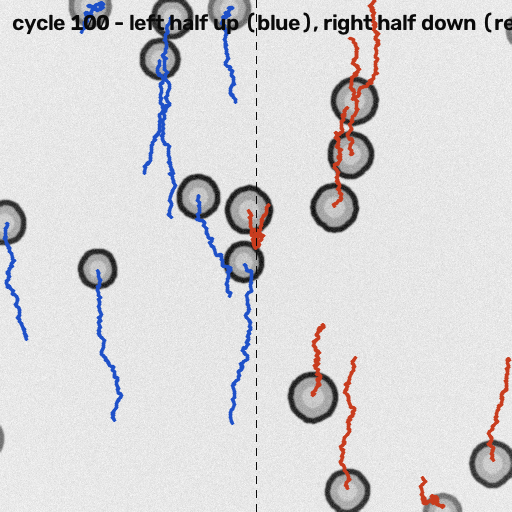
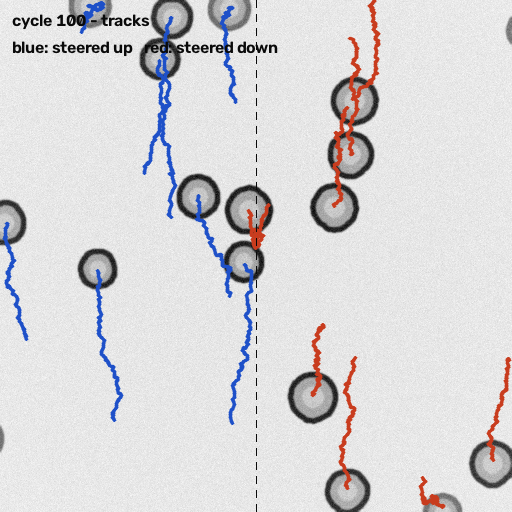
Event-driven MDA activity (useq-schema Queue pattern from pymmcore-plus guide), thread-safe SLM under realtime engine, MDA smoke test; figures: fitted multi-line labels, pipeline explainer (6-panel crop), longer explainer tracks

Changed region(s): [[0.0, 0.0312, 1.0, 0.125]]

diff --git a/scripts/make_module_figures.py b/scripts/make_module_figures.py
@@ -26,9 +26,16 @@ OUT = sys.argv[1] if len(sys.argv) > 1 else "docs/images"
 BLACK = (10, 10, 10)
 
 
-def label(panel, text):
-    cv2.putText(panel, text, (12, 30), cv2.FONT_HERSHEY_SIMPLEX, 0.75,
-                BLACK, 2, cv2.LINE_AA)
+def label(panel, text, scale=0.55):
+    """One or more label lines, sized to stay inside a 512-px panel."""
+    lines = [text] if isinstance(text, str) else list(text)
+    y = 26
+    for line in lines:
+        (w, h), _ = cv2.getTextSize(line, cv2.FONT_HERSHEY_SIMPLEX, scale, 2)
+        s = scale * min(1.0, (panel.shape[1] - 24) / max(w, 1))
+        cv2.putText(panel, line, (12, y), cv2.FONT_HERSHEY_SIMPLEX, s,
+                    BLACK, 2, cv2.LINE_AA)
+        y += h + 12
     return panel
 
 
@@ -89,7 +96,7 @@ def fig_steering():
     p2 = overlay(img_final, np.zeros_like(img_final))
     rows = link_tracks(det)
     draw_tracks(p2, rows, lambda tr: (30, 110, 30))
-    label(p2, "cycle 100 - tracks (population moved up)")
+    label(p2, ["cycle 100 - tracks", "(population moved up)"])
 
     cv2.imwrite(f"{OUT}/act2_steering_expected.png",
                 cv2.cvtColor(np.hstack([p1, p2]), cv2.COLOR_RGB2BGR))
@@ -117,7 +124,7 @@ def fig_split():
     draw_tracks(panel, rows, color)
     for y in range(0, 512, 14):                # dashed midline
         cv2.line(panel, (256, y), (256, min(y + 7, 511)), BLACK, 1)
-    label(panel, "cycle 100 - left half up (blue), right half down (red)")
+    label(panel, ["cycle 100 - tracks", "blue: steered up   red: steered down"])
     cv2.imwrite(f"{OUT}/act2_split_expected.png",
                 cv2.cvtColor(panel, cv2.COLOR_RGB2BGR))
 
@@ -171,13 +178,120 @@ def fig_letter():
     core.snapImage()
     on = sum(1 for cx, cy in cells if target[cy, cx] > 0)
     p = overlay(core.getImage(), target, color=(255, 120, 120), alpha=0.22)
-    panels.append(label(p, f"cycle 500 - {on}/{len(cells)} cells on target"))
+    panels.append(label(p, [f"cycle 500", f"{on}/{len(cells)} cells on target"]))
     cv2.imwrite(f"{OUT}/exercise_letter_expected.png",
                 cv2.cvtColor(np.hstack(panels), cv2.COLOR_RGB2BGR))
+
+
+def fig_pipeline():
+    """From pixels to decisions, on a small crop with ~3 cells.
+
+    All panels show the experiment start (t=0); the tracks panel overlays
+    where the cells went during the following 25 steering cycles.
+    """
+    # seed 18 has a clean, isolated 3-cell neighbourhood for the crop
+    core, sim = load_microscope("optogenetic", n_cells=20, seed=18,
+                                warmup=False)
+
+    def snap(ch):
+        core.setConfig("Channel", ch)
+        core.snapImage()
+        return core.getImage()
+
+    # ── capture everything at t = 0 ─────────────────────────────────────
+    phase0 = snap("phase-contrast")
+    dapi0 = snap("DAPI")
+    _, binary0 = cv2.threshold(dapi0, 0, 255,
+                               cv2.THRESH_BINARY + cv2.THRESH_OTSU)
+    cells0 = detect_nuclei(dapi0)
+
+    # crop window with exactly 3 nuclei, clear of the label area (top 55 px)
+    box = 170
+    cx0 = cy0 = None
+    for y in range(0, 512 - box, 8):
+        for x in range(0, 512 - box, 8):
+            inside = [(cx, cy) for cx, cy in cells0
+                      if x + 30 < cx < x + box - 30
+                      and y + 60 < cy < y + box - 30]
+            n_total = sum(1 for cx, cy in cells0
+                          if x - 20 < cx < x + box + 20
+                          and y - 20 < cy < y + box + 20)
+            if len(inside) == 3 and n_total == 3:
+                cx0, cy0 = x, y
+                break
+        if cx0 is not None:
+            break
+    assert cx0 is not None, "no 3-cell crop found — adjust box/seed"
+
+    # ── steering run to accumulate tracks ───────────────────────────────
+    det = []
+    for _ in range(60):
+        cells = detect_nuclei(snap("DAPI"))
+        det.append(cells)
+        core.setSLMImage("SLM", steer_mask(cells))
+        advance(sim, 1.0)
+
+    SC = 3  # upscale factor for legibility
+
+    def crop(img):
+        c = img[cy0:cy0 + box, cx0:cx0 + box]
+        return cv2.resize(c, (box * SC, box * SC),
+                          interpolation=cv2.INTER_NEAREST)
+
+    def to_rgb(img, invert=True):
+        g = 255 - img if invert else img
+        return np.stack([g] * 3, axis=-1)
+
+    def small_label(panel, text):
+        cv2.putText(panel, text, (10, 28), cv2.FONT_HERSHEY_SIMPLEX, 0.62,
+                    BLACK, 2, cv2.LINE_AA)
+        return panel
+
+    p1 = small_label(to_rgb(crop(phase0)), "1. acquire: phase-contrast")
+    p2 = small_label(to_rgb(crop(dapi0)), "2. acquire: nuclei (DAPI)")
+    p3 = small_label(to_rgb(crop(binary0)), "3. threshold (Otsu)")
+
+    # panel 4: connected components + centroids (at t = 0)
+    n_lbl, lbl_img = cv2.connectedComponents((binary0 > 0).astype(np.uint8))
+    lbl_rgb = np.full((512, 512, 3), 255, np.uint8)
+    palette = [(200, 60, 60), (60, 140, 60), (60, 80, 200), (180, 140, 40)]
+    for i in range(1, n_lbl):
+        lbl_rgb[lbl_img == i] = palette[(i - 1) % len(palette)]
+    p4 = cv2.resize(lbl_rgb[cy0:cy0 + box, cx0:cx0 + box],
+                    (box * SC, box * SC), interpolation=cv2.INTER_NEAREST)
+    for cx, cy in cells0:
+        if cx0 < cx < cx0 + box and cy0 < cy < cy0 + box:
+            cv2.drawMarker(p4, ((cx - cx0) * SC, (cy - cy0) * SC), BLACK,
+                           cv2.MARKER_CROSS, 18, 2)
+    small_label(p4, "4. label + measure centroids")
+
+    # panel 5: tracks from the 25-cycle run, over the t=0 image
+    p5 = to_rgb(crop(phase0))
+    rows = link_tracks(det)
+    for tid in np.unique(rows[:, 0]):
+        tr = rows[rows[:, 0] == tid]
+        if len(tr) < 5:
+            continue
+        pts = tr[np.argsort(tr[:, 1])][:, 2:]
+        poly = np.column_stack([(pts[:, 1] - cx0) * SC,
+                                (pts[:, 0] - cy0) * SC]).astype(np.int32)
+        cv2.polylines(p5, [poly], False, (30, 110, 30), 3, cv2.LINE_AA)
+    small_label(p5, "5. link into tracks")
+
+    # panel 6: the decision at t = 0
+    p6 = overlay(phase0, steer_mask(cells0))[cy0:cy0 + box, cx0:cx0 + box]
+    p6 = cv2.resize(p6, (box * SC, box * SC),
+                    interpolation=cv2.INTER_NEAREST)
+    small_label(p6, "6. decide: place light spots")
+
+    grid = np.vstack([np.hstack([p1, p2, p3]), np.hstack([p4, p5, p6])])
+    cv2.imwrite(f"{OUT}/pipeline_explained.png",
+                cv2.cvtColor(grid, cv2.COLOR_RGB2BGR))
 
 
 if __name__ == "__main__":
     fig_steering()
     fig_split()
     fig_letter()
+    fig_pipeline()
     print("module figures written to", OUT)

diff --git a/examples/04_event_driven.py b/examples/04_event_driven.py
@@ -1,0 +1,122 @@
+# %%
+# Advanced: the same feedback loop as an event-driven MDA acquisition
+#
+# The for-loop in example 01 is the clearest way to LEARN feedback control,
+# but production acquisitions in pymmcore-plus are built on useq-schema
+# MDAEvents executed by the MDA engine: hardware-timed, logged, and
+# GUI-compatible (the napari-micromanager MDA panel builds the same events).
+#
+# The trick for feedback experiments: `run_mda()` accepts any *iterable* of
+# events — including a Queue that is being filled WHILE the acquisition
+# runs. Analysis decides, event by event, what the microscope does next.
+# This adapts the Analyzer/Controller pattern from the pymmcore-plus guide:
+# https://pymmcore-plus.github.io/pymmcore-plus/guides/event_driven_acquisition/
+#
+#   Controller ──puts──▶ Queue ──iterated by──▶ MDA engine ──▶ microscope
+#       ▲                                                          │
+#       └────────── frameReady (image + event) ◀───────────────────┘
+
+import time
+from queue import Queue
+
+import cv2
+import numpy as np
+from useq import MDAEvent
+
+from vmteach import detect_nuclei, load_microscope
+
+# Real-time mode: the MDA engine paces acquisition by wall clock
+# (min_start_time), and the sample evolves in wall clock — like on
+# real hardware.
+core, sim = load_microscope("optogenetic", n_cells=20, seed=0,
+                            mode="realtime")
+
+N_FRAMES = 30
+INTERVAL = 0.4          # seconds between frames
+DAPI = {"config": "DAPI", "group": "Channel"}
+
+
+# %%
+class Analyzer:
+    """ANALYZE + DECIDE: segment nuclei, build the steering mask."""
+
+    def run(self, img: np.ndarray) -> dict:
+        cells = detect_nuclei(img)
+        mask = np.zeros((512, 512), np.uint8)
+        for cx, cy in cells:
+            cv2.circle(mask, (cx, max(cy - 15, 0)), 11, 255, -1)
+        return {"n_cells": len(cells), "mask": mask}
+
+
+class Controller:
+    """Feeds the MDA engine one event at a time, driven by analysis."""
+
+    STOP = object()
+
+    def __init__(self, analyzer: Analyzer, core, queue: Queue,
+                 n_frames: int = N_FRAMES):
+        self._analyzer = analyzer
+        self._core = core
+        self._queue = queue
+        self._n_frames = n_frames
+        # the engine calls this for every acquired frame
+        core.mda.events.frameReady.connect(self._on_frame_ready)
+
+    def _on_frame_ready(self, img: np.ndarray, event: MDAEvent) -> None:
+        t = event.index.get("t", 0)
+        result = self._analyzer.run(img)
+
+        # ACTUATE — same call as in the simple loop
+        self._core.setSLMImage("SLM", result["mask"])
+
+        # DECIDE what the microscope does next
+        if t + 1 >= self._n_frames:
+            self._queue.put(self.STOP)          # sentinel ends the MDA
+        else:
+            self._queue.put(MDAEvent(
+                index={"t": t + 1},
+                channel=DAPI,
+                min_start_time=(t + 1) * INTERVAL,   # pace by wall clock
+            ))
+        print(f"frame {t + 1}/{self._n_frames}: "
+              f"{result['n_cells']} cells", end="\r")
+
+    def run(self):
+        # a Queue is not iterable — iter(get, sentinel) makes it one
+        self._core.run_mda(iter(self._queue.get, self.STOP))
+        # seed the acquisition with the first event; analysis takes over
+        self._queue.put(MDAEvent(index={"t": 0}, channel=DAPI,
+                                 min_start_time=0.0))
+
+
+# %%
+# Run it. Note there is NO acquisition loop in our code anymore — the MDA
+# engine drives the microscope; our code only reacts to frames and decides
+# the next event.
+y_before = sim.centers[:, 1].copy()
+
+q = Queue()
+controller = Controller(Analyzer(), core, q)
+controller.run()
+
+# run_mda is non-blocking; wait for the acquisition to finish
+while core.mda.is_running():
+    time.sleep(0.1)
+
+dy = sim.centers[:, 1] - y_before
+dy -= sim.height * np.round(dy / sim.height)      # periodic world wrap
+print(f"\nmean displacement after {N_FRAMES} frames: {dy.mean():+.1f} px "
+      "(negative = up)")
+
+# %%
+# Why bother, when the for-loop worked fine?
+#  - useq MDAEvents carry the full acquisition vocabulary (z-stacks,
+#    positions, exposure, channels) in one declarative object
+#  - the engine handles hardware timing/synchronization; events are logged
+#    and reproducible
+#  - the identical Controller runs on real hardware — swap the core
+#  - a GUI (napari-micromanager's MDA panel) and your feedback logic can
+#    produce events for the same engine
+#
+# On real microscopes this is the recommended architecture for feedback
+# experiments — see rtm-pymmcore / FARO for a full implementation.

diff --git a/tests/test_teaching.py b/tests/test_teaching.py
@@ -134,5 +134,48 @@ def test_realtime_mode_advances_on_its_own():
     p0 = sim.centers.copy()
     time.sleep(1.0)
     core.snapImage()
-    assert not np.array_equal(p0, sim.centers), \
-        "realtime mode: sample should evolve in wall-clock time"
+    moved = not np.array_equal(p0, sim.centers)
+    # stop the background engine so no thread lingers at interpreter exit
+    from vmteach.bridge import GLOBAL_BRIDGE
+    if GLOBAL_BRIDGE is not None and GLOBAL_BRIDGE._engine is not None:
+        GLOBAL_BRIDGE._engine.stop()
+    assert moved, "realtime mode: sample should evolve in wall-clock time"
+
+
+def test_event_driven_mda_queue():
+    """The advanced activity: queue-fed MDA with analysis-driven events."""
+    import time
+    from queue import Queue
+    from useq import MDAEvent
+
+    core, sim = load_microscope("optogenetic", n_cells=10, seed=3,
+                                mode="realtime", warmup=False)
+    STOP = object()
+    q = Queue()
+    frames = []
+
+    def on_frame(img, event):
+        t = event.index.get("t", 0)
+        frames.append(t)
+        cells = detect_cells(img, min_area=20)
+        core.setSLMImage("SLM", steer_mask(cells))
+        if t + 1 >= 6:
+            q.put(STOP)
+        else:
+            q.put(MDAEvent(index={"t": t + 1},
+                           channel={"config": "DAPI", "group": "Channel"},
+                           min_start_time=(t + 1) * 0.15))
+
+    core.mda.events.frameReady.connect(on_frame)
+    core.run_mda(iter(q.get, STOP))
+    q.put(MDAEvent(index={"t": 0},
+                   channel={"config": "DAPI", "group": "Channel"}))
+    deadline = time.time() + 15
+    while core.mda.is_running() and time.time() < deadline:
+        time.sleep(0.05)
+    core.mda.events.frameReady.disconnect(on_frame)
+    from vmteach.bridge import GLOBAL_BRIDGE
+    if GLOBAL_BRIDGE is not None and GLOBAL_BRIDGE._engine is not None:
+        GLOBAL_BRIDGE._engine.stop()
+    assert not core.mda.is_running(), "MDA did not finish"
+    assert frames == list(range(6)), f"frames received: {frames}"

diff --git a/src/vmteach/bridge.py b/src/vmteach/bridge.py
@@ -65,9 +65,18 @@ class SimulationBridge:
     # ── SLM ─────────────────────────────────────────────────────────────
 
     def set_slm_mask(self, mask: np.ndarray) -> None:
-        """Called by the SLM device; applies stimulation immediately."""
+        """Called by the SLM device; applies stimulation immediately.
+
+        In realtime mode the engine steps the sim on a background thread,
+        so the stimulation update takes the engine lock (callers may be on
+        yet another thread, e.g. an MDA frameReady callback).
+        """
         self._current_slm_mask = mask
-        self._sim._handle_mask(mask)
+        if self._engine is not None:
+            with self._engine.lock:
+                self._sim._handle_mask(mask)
+        else:
+            self._sim._handle_mask(mask)
 
     def get_slm_mask(self) -> np.ndarray:
         if self._current_slm_mask is not None:
